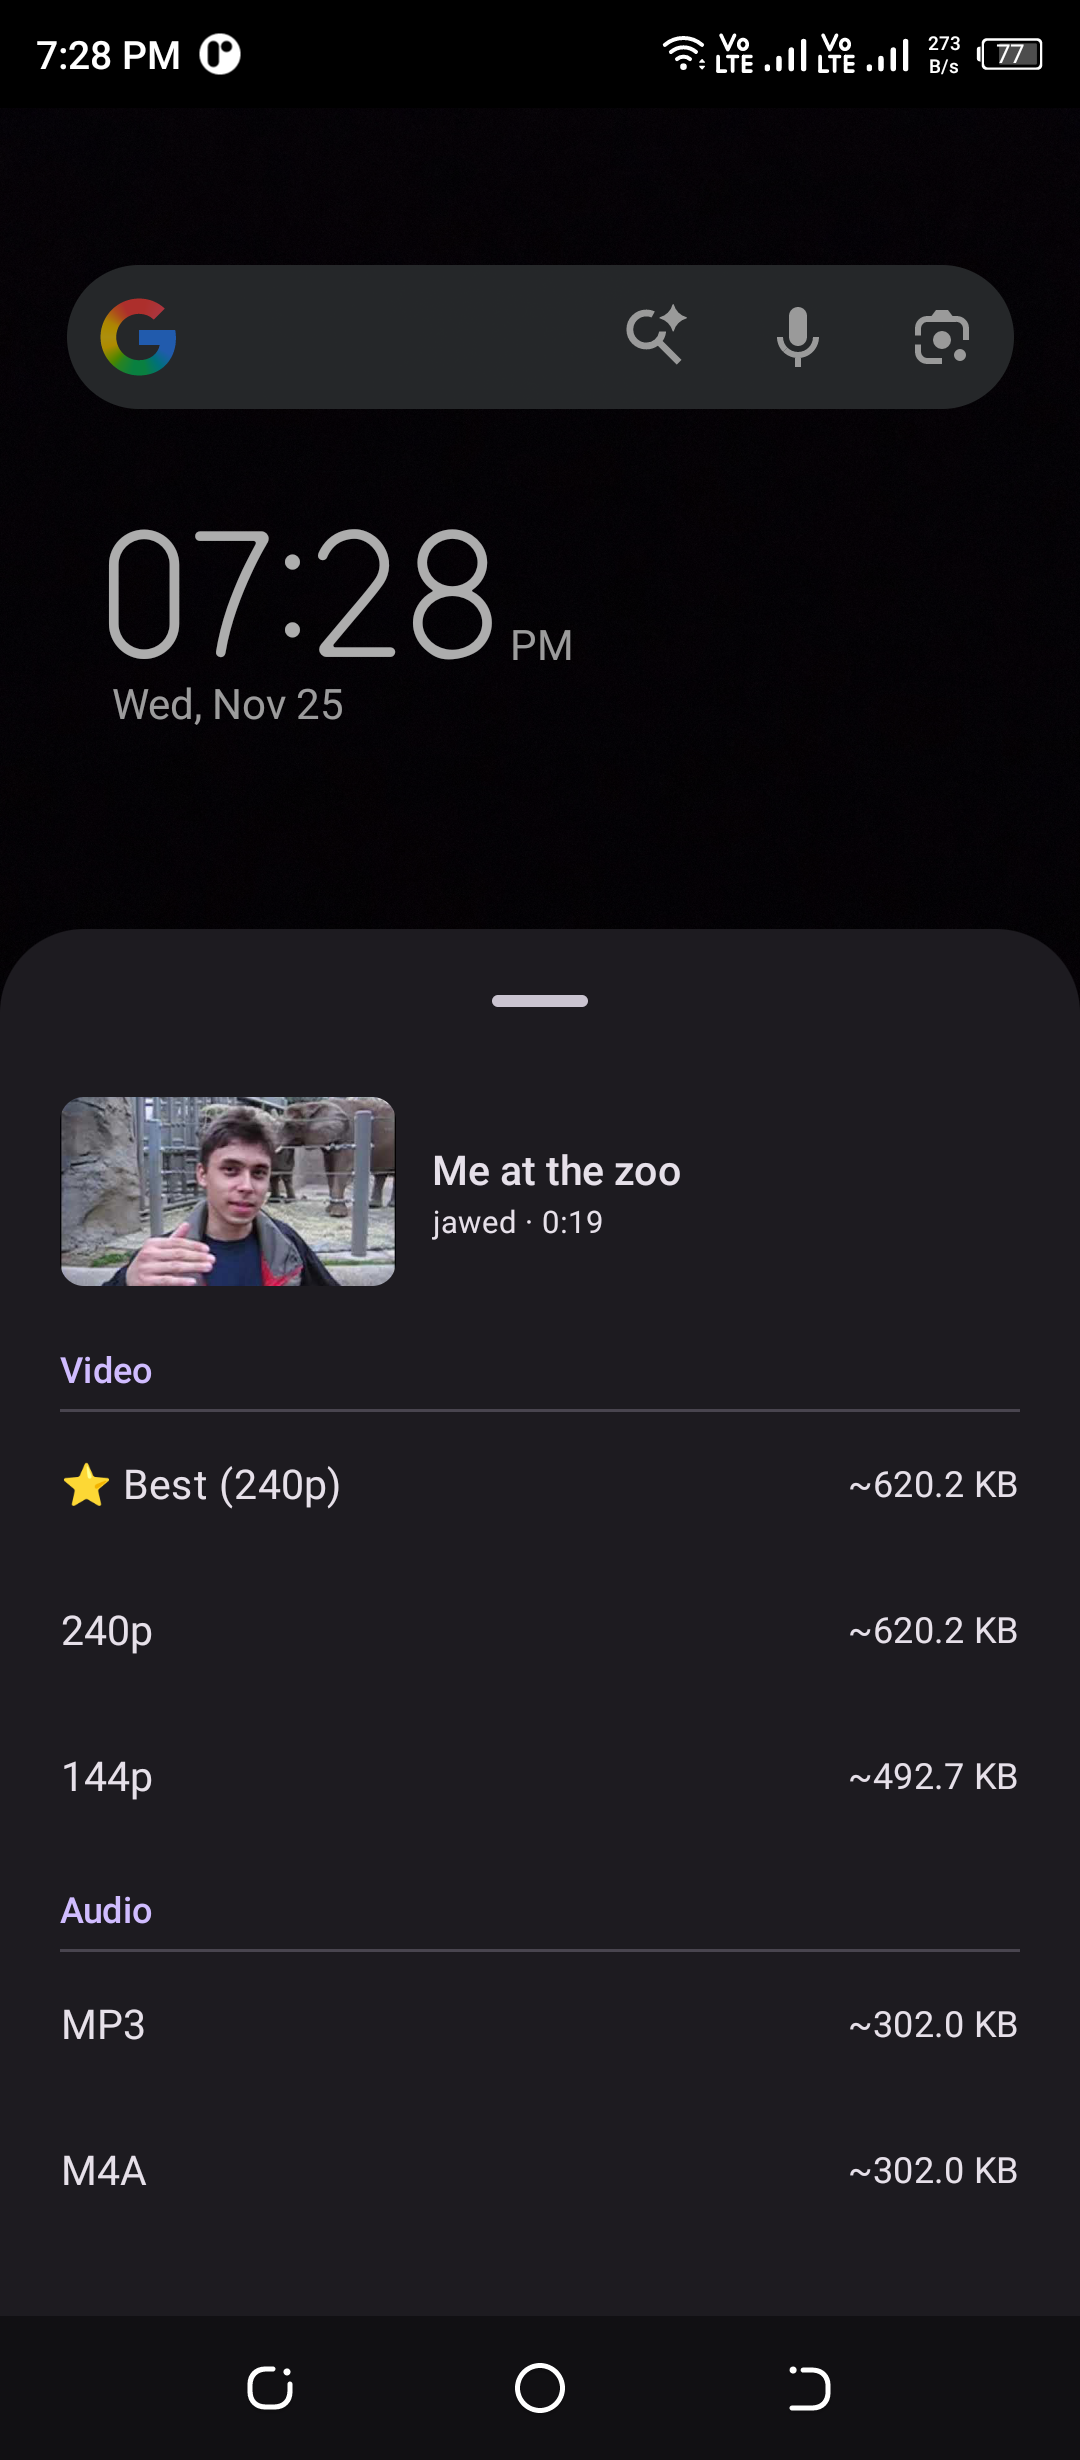
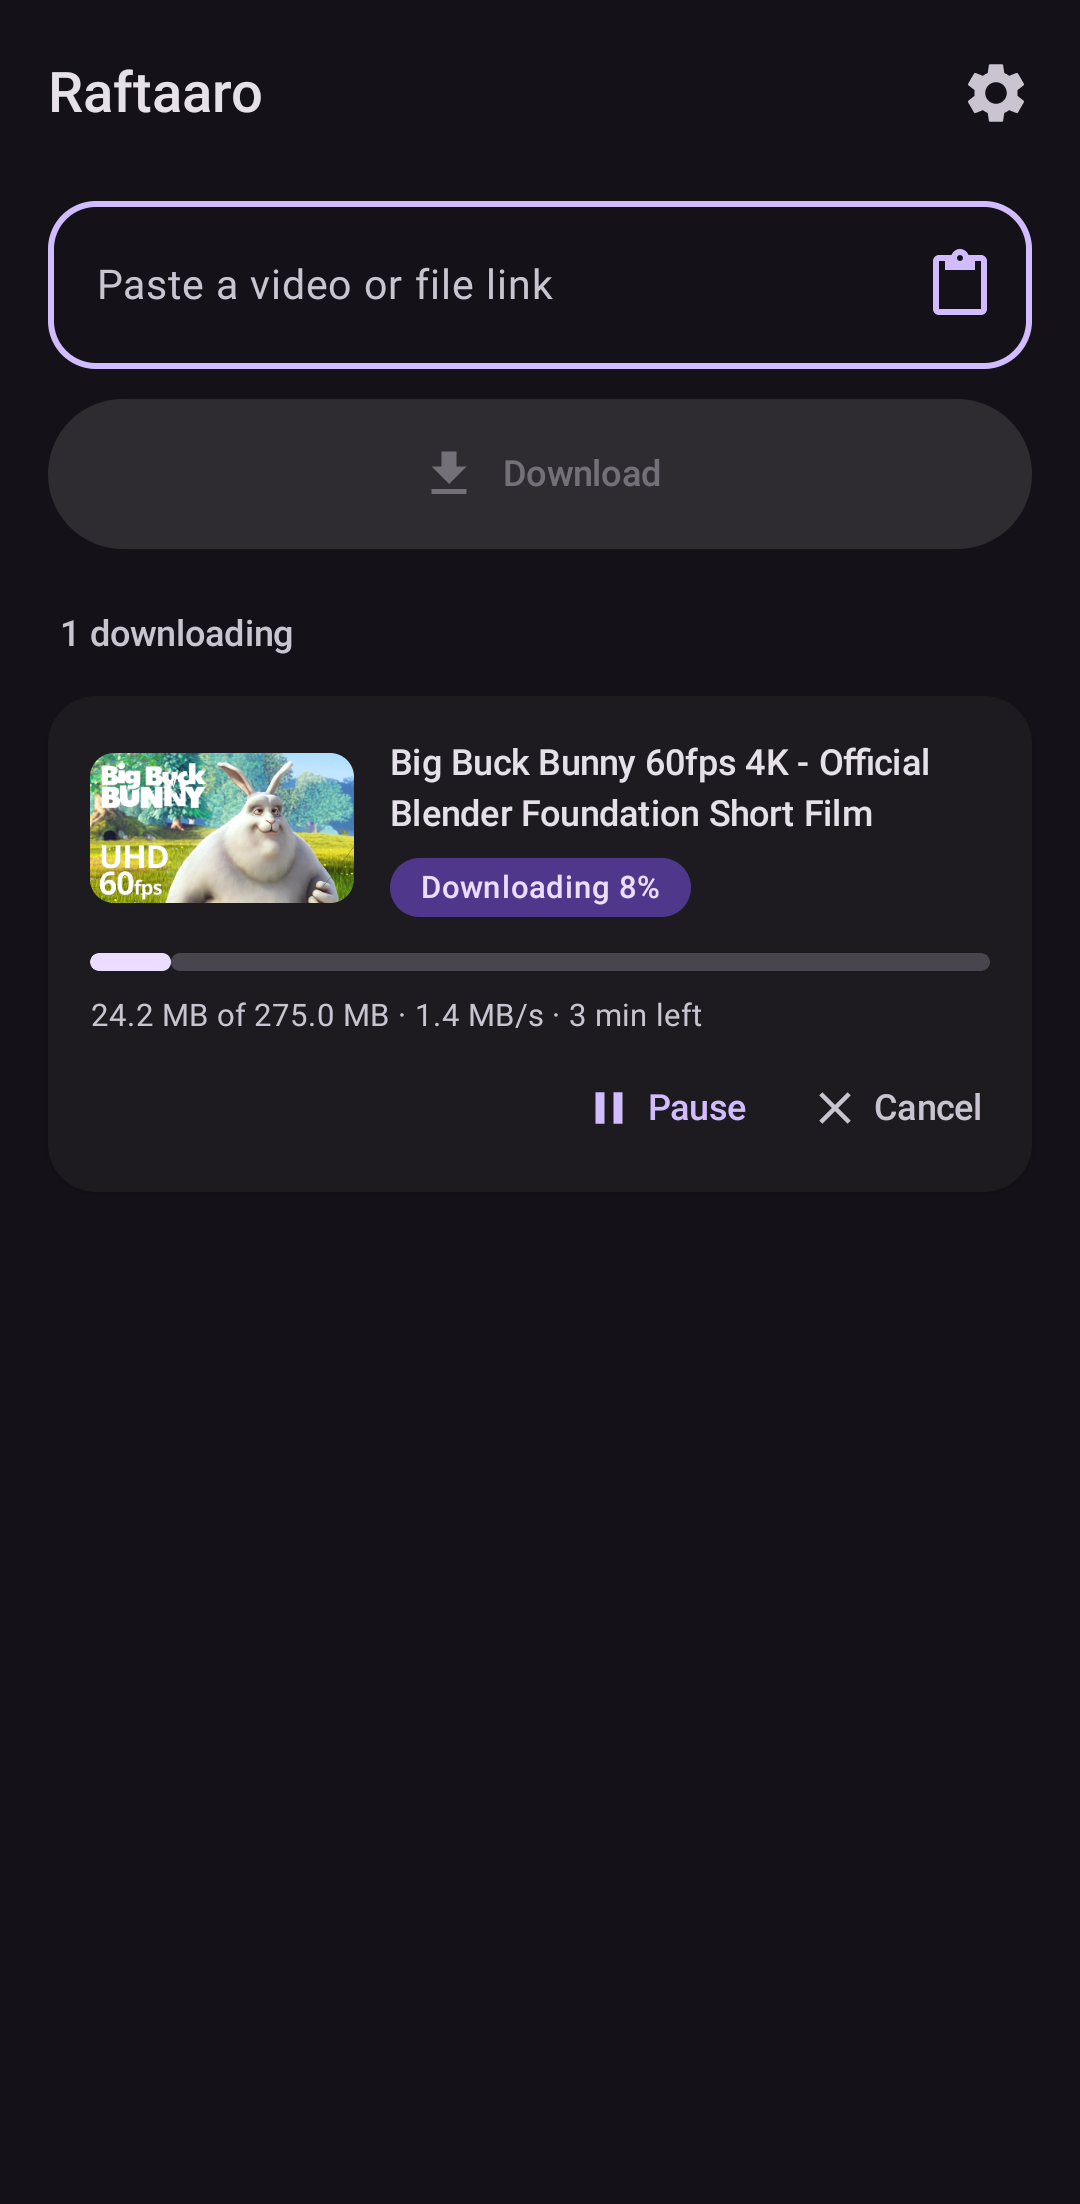
release: prepare 0.2.0 for F-Droid
- Version 0.2.0 (versionCode 2; APKs 20 universal, 21/22/23 per ABI).
- -PytdlpAutoUpdate=false (BuildConfig.YTDLP_AUTO_UPDATE) turns off every
  automatic yt-dlp update: at start-up, in the daily warm-up and after an
  "out of date" failure. "Update now" in Settings still works, and its
  hint says to use it. F-Droid builds with this off.
- A release build without a release key is left unsigned instead of
  being signed with the debug key, so F-Droid can sign it.
- fdroid/io.github.hamzabhai.raftaaro.yml: draft metadata for the
  fdroiddata merge request (one build per ABI from tag v0.2.0).
- Changelogs for versionCodes 20-23, new screenshots of the current
  screens (Big Buck Bunny, CC BY, as the example video), and the store
  description no longer says yt-dlp updates itself.

diff --git a/app/src/main/java/io/github/hamzabhai/raftaaro/engine/YtDlpEngine.kt b/app/src/main/java/io/github/hamzabhai/raftaaro/engine/YtDlpEngine.kt
@@ -6,6 +6,7 @@ import com.yausername.ffmpeg.FFmpeg
 import com.yausername.youtubedl_android.YoutubeDL
 import com.yausername.youtubedl_android.YoutubeDLException
 import com.yausername.youtubedl_android.YoutubeDLRequest
+import io.github.hamzabhai.raftaaro.BuildConfig
 import io.github.hamzabhai.raftaaro.core.OUTDATED_MESSAGE
 import io.github.hamzabhai.raftaaro.core.ProbeResult
 import io.github.hamzabhai.raftaaro.core.ProgressTracker
@@ -332,7 +333,8 @@ class YtDlpEngine(
         return try {
             once(null)
         } catch (e: YtDlpError) {
-            if (e.message != OUTDATED_MESSAGE) throw e
+            // an F-Droid build tells the user to update from Settings instead
+            if (e.message != OUTDATED_MESSAGE || !BuildConfig.YTDLP_AUTO_UPDATE) throw e
             updateNow()
             once(null)
         }
@@ -372,8 +374,12 @@ class YtDlpEngine(
         YoutubeDL.getInstance().destroyProcessById(jobId)
     }
 
-    /** Checks for a new yt-dlp at most once a day. Failures are ignored (next start tries again). */
+    /**
+     * Checks for a new yt-dlp at most once a day. Failures are ignored (next start tries again).
+     * Never in an F-Droid build ([BuildConfig.YTDLP_AUTO_UPDATE] off): the user updates from Settings.
+     */
     suspend fun updateIfDue(settings: SettingsStore) {
+        if (!BuildConfig.YTDLP_AUTO_UPDATE) return
         if (!shouldUpdateYtDlp(settings.current().lastYtDlpUpdate, System.currentTimeMillis())) return
         runCatching { updateNow() }.onSuccess {
             settings.update { it.copy(lastYtDlpUpdate = System.currentTimeMillis()) }

diff --git a/app/src/main/java/io/github/hamzabhai/raftaaro/ui/settings/SettingsScreen.kt b/app/src/main/java/io/github/hamzabhai/raftaaro/ui/settings/SettingsScreen.kt
@@ -1,5 +1,6 @@
 package io.github.hamzabhai.raftaaro.ui.settings
 
+import io.github.hamzabhai.raftaaro.BuildConfig
 import android.content.Intent
 import android.net.Uri
 import androidx.activity.compose.rememberLauncherForActivityResult
@@ -147,7 +148,7 @@ fun SettingsContent(
             Row(verticalAlignment = Alignment.CenterVertically) {
                 Column(Modifier.weight(1f)) {
                     Text("yt-dlp ${ytDlpVersion ?: "…"}", style = MaterialTheme.typography.bodyLarge)
-                    Text(updateMessage ?: "Updates itself once a day", style = MaterialTheme.typography.bodySmall)
+                    Text(updateMessage ?: if (BuildConfig.YTDLP_AUTO_UPDATE) "Updates itself once a day" else "Tap Update now when downloads start failing", style = MaterialTheme.typography.bodySmall)
                 }
                 TextButton(onClick = onUpdate) { Text("Update now") }
             }

diff --git a/README.md b/README.md
@@ -56,7 +56,7 @@ release.keyAlias=raftaaro
 release.keyPassword=...
 ```
 
-Without these, a local release build is signed with the debug key (for testing only).
+Without these, a release build is left unsigned (F-Droid signs its builds with its own key). For a quick local test, install the debug build instead.
 
 For the GitHub release workflow (`.github/workflows/release.yml`, runs on `v*` tags), add the repository secrets `RELEASE_KEYSTORE_BASE64` (the `.jks` file in base64), `RELEASE_STORE_PASSWORD`, `RELEASE_KEY_ALIAS` and `RELEASE_KEY_PASSWORD`.
 
